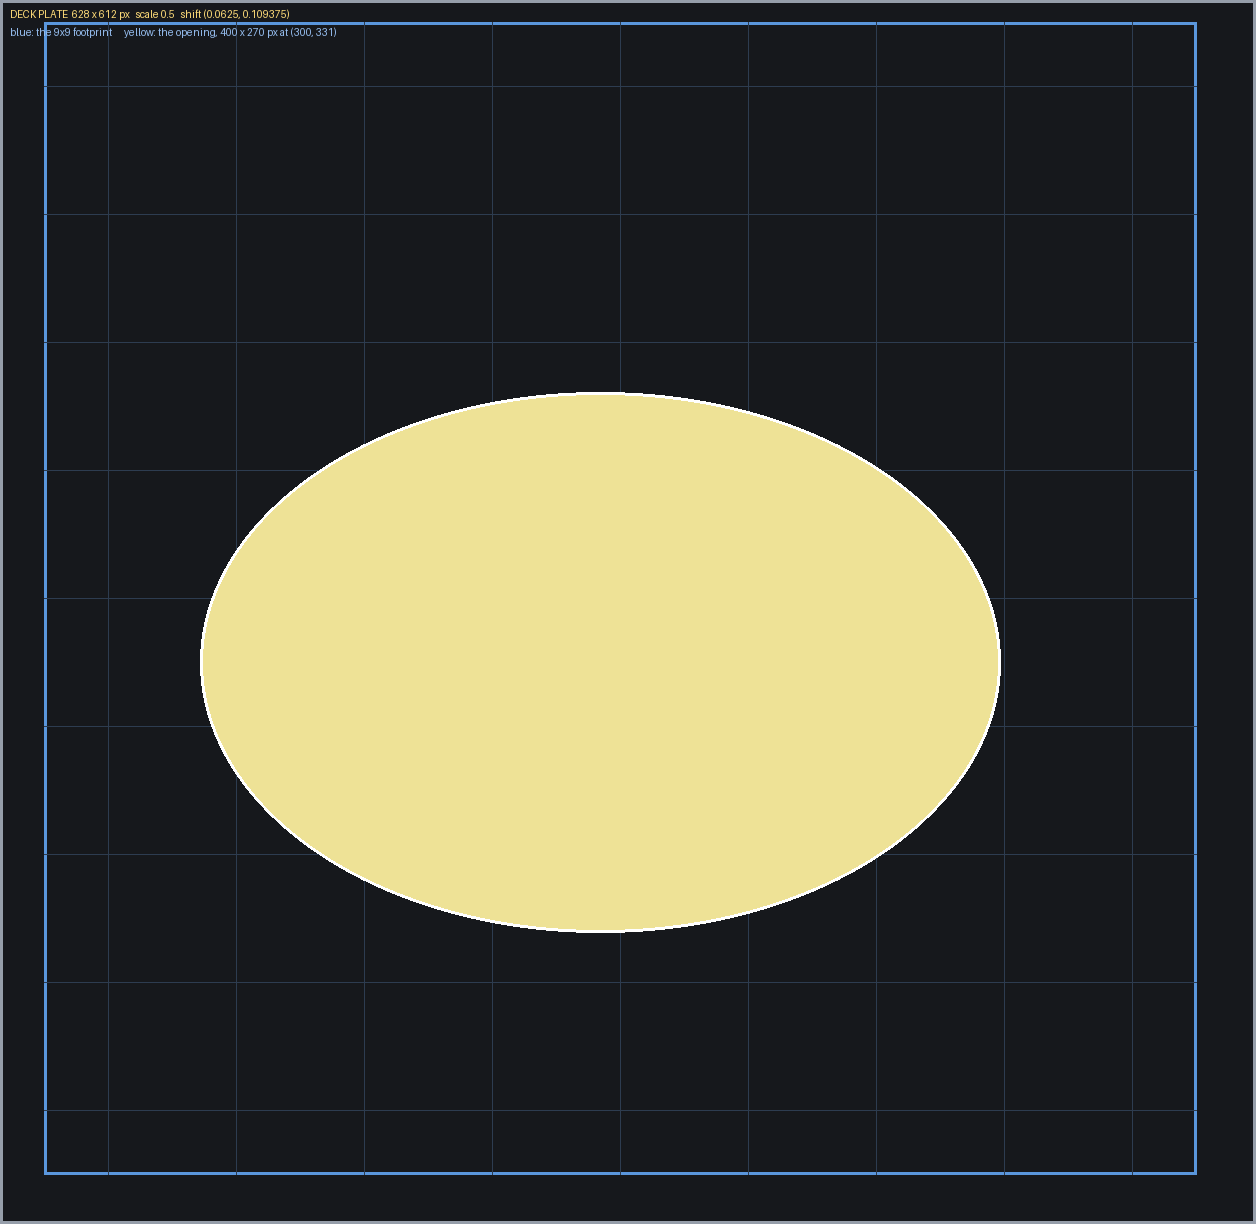
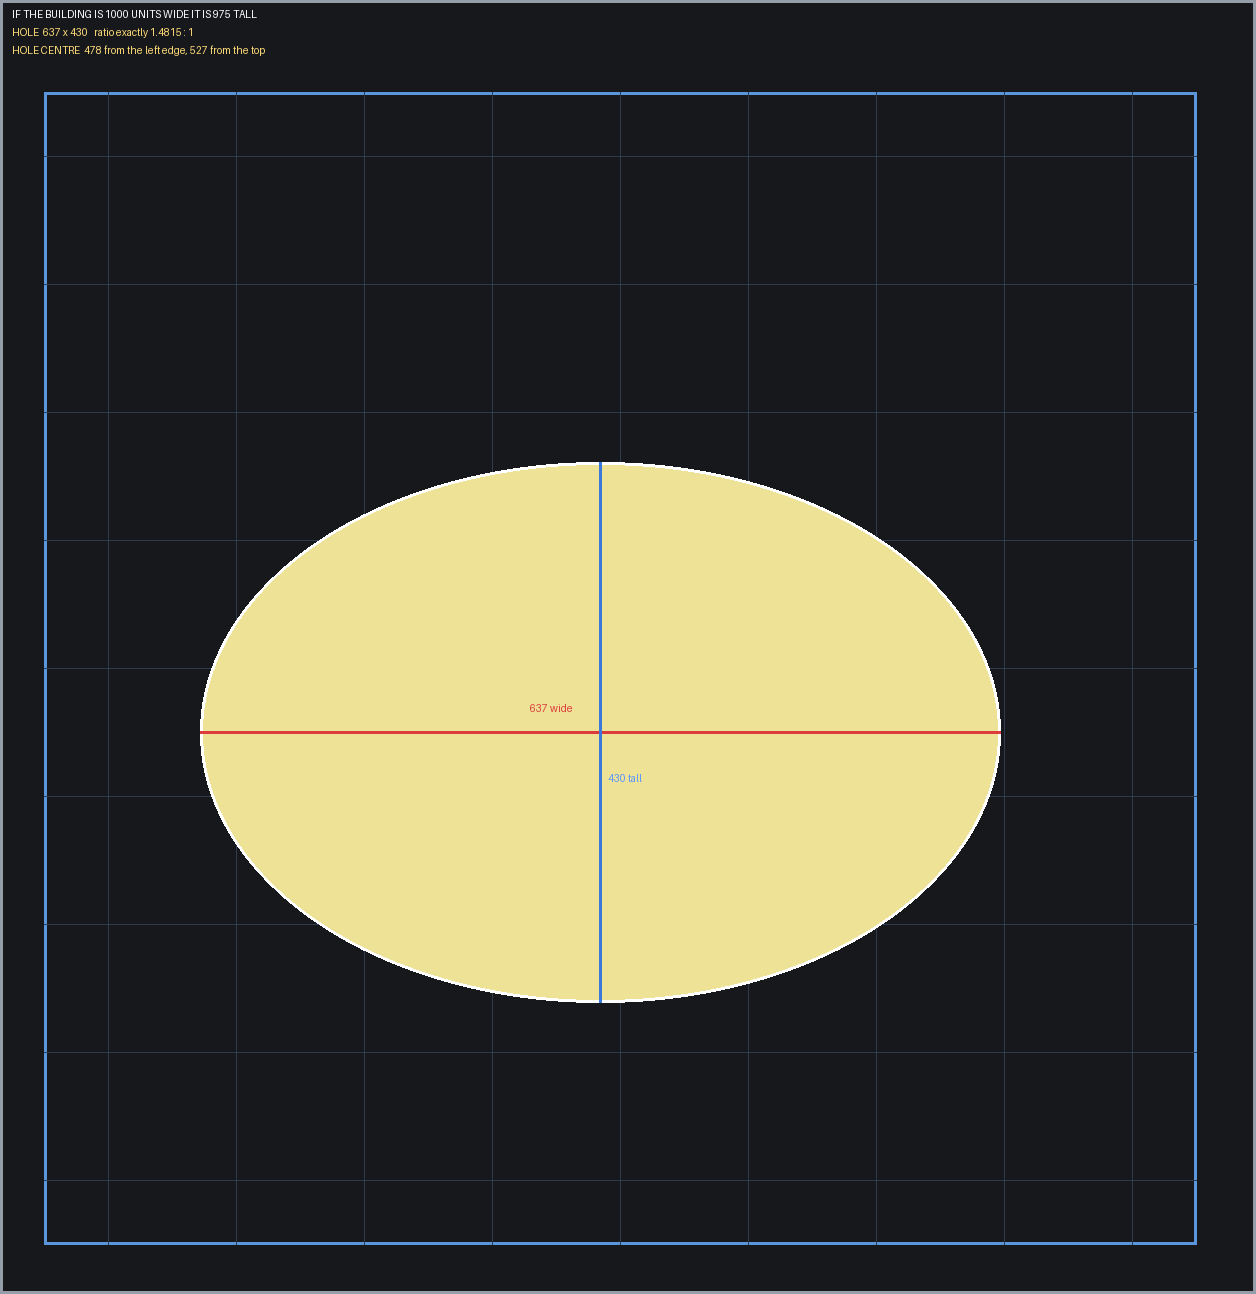
State the Array's plate geometry as arithmetic rather than proportions
Liam's point, and round 1 is the evidence for it: "about two thirds of the
building's width" and "taller by about a fifth" produced a hole at aspect 1.76
against a 1.48 target. Vague quantities ask the generator for a judgement; a sum
gives it something to check itself against.

The whole geometry is now stated on a round base -- if the building is 1000
units wide it is 975 tall, the hole is 637 by 430 at exactly 1.4815 : 1, its
centre 478 from the left and 527 from the top, its edges at 159, 796, 312 and
742. The lid is 669 by 452 on the same base.

None of that is new geometry. It is the same table scaled so the deck's width is
1000, which is the one number a generator can actually hold on to.

The diagram carries the figures too, as labelled dimension lines across the
ellipse, since the diagram is what has actually been carrying geometry
successfully. And the acceptance table now gives a target beside each band
rather than a range alone -- 637 rather than "0.60 to 0.68 of the width" --
because a number to aim at is checkable in a way a band is not.

The centre matters as much as the size: 478 / 527 rather than 500 / 487 is what
records that the hole is not centred, and drawing it centred has been the most
persistent error in this building.

Claude-Session: https://claude.ai/code/session_01PHoDcDisYsZ9VzkQUA8DeN

diff --git a/graphics/array-plate-plan.md b/graphics/array-plate-plan.md
@@ -51,13 +51,26 @@ Taking the deck plate as the reference canvas, the **entity origin sits at
 | `door_back` canvas | x 228 … 540, y 180 … 466 |
 | `door_front` canvas | x 88 … 420, y 215 … 515 |
 
-As proportions of the deck plate, which is what a generator can actually work
-to: the opening is **63.7% of the width and 44.1% of the height**, with its
-centre **47.8% across and 54.1% down**. It is *not* centred — it sits low and a
-little left, and drawing it centred is the single easiest way to get this wrong.
+### The numbers to put in a prompt
 
-The opening's aspect is **1.481**. That number has been the whole difficulty of
-this building; it is fixed here by construction.
+Percentages and fractions do not survive: "about two thirds wide" and "a fifth
+taller" produced a hole at aspect 1.76 against a 1.48 target. Give arithmetic on
+a round base instead, so the generator has a sum to check itself against rather
+than a judgement to make.
+
+> **If the building is 1000 units wide, it is 975 tall.**
+> **The hole is 637 wide and 430 tall — exactly 1.4815 : 1.**
+> **Its centre is 478 from the left edge and 527 from the top.**
+> **Its edges: left 159, right 796, top 312, bottom 742.**
+
+Every one of those is the same geometry as the table above, scaled so the deck's
+width is 1000. `concept/plate-plan-deck.png` carries them as labelled dimension
+lines on the drawing itself.
+
+The hole is **not centred** — it sits low and a little left, because vanilla's
+opening is half a tile south of the entity origin. Drawing it centred is the
+single easiest way to get this wrong, and 478 / 527 rather than 500 / 487 is what
+says so.
 
 ---
 
@@ -86,6 +99,9 @@ for two halves that fit together is not.
 under the collar instead of butting against it. Measured at exactly the
 opening's size it covered 87% and left a hairline of ring showing all the way
 round.
+
+On the same 1000-unit base: **the lid is 669 wide and 452 tall**, again exactly
+1.4815 : 1, centred on the hole at 478 / 527.
 
 **The seam runs at 108° from horizontal** — steep, leaning left at the top,
 right at the bottom. This is a correction to every sheet drawn so far, which
@@ -134,9 +150,10 @@ is what produced five mutually inconsistent numbers last time.
 
 | Check | Target |
 | --- | --- |
-| Opening aspect | 1.45 – 1.52 |
-| Opening width, as a fraction of deck width | 0.60 – 0.68 |
-| Opening centre, across / down | 46–50% / 52–57% |
+| Opening aspect | 1.45 – 1.52 (target **1.4815**) |
+| Opening width, on a 1000-wide building | 600 – 680 (target **637**) |
+| Opening height, on a 1000-wide building | 405 – 460 (target **430**) |
+| Opening centre, on a 1000-wide building | 460–500 across (target **478**), 505–555 down (target **527**) |
 | Seam angle | 100° – 116° |
 | Background | flat magenta, keys with no holes or ledges |
 | Lit anything | none |
